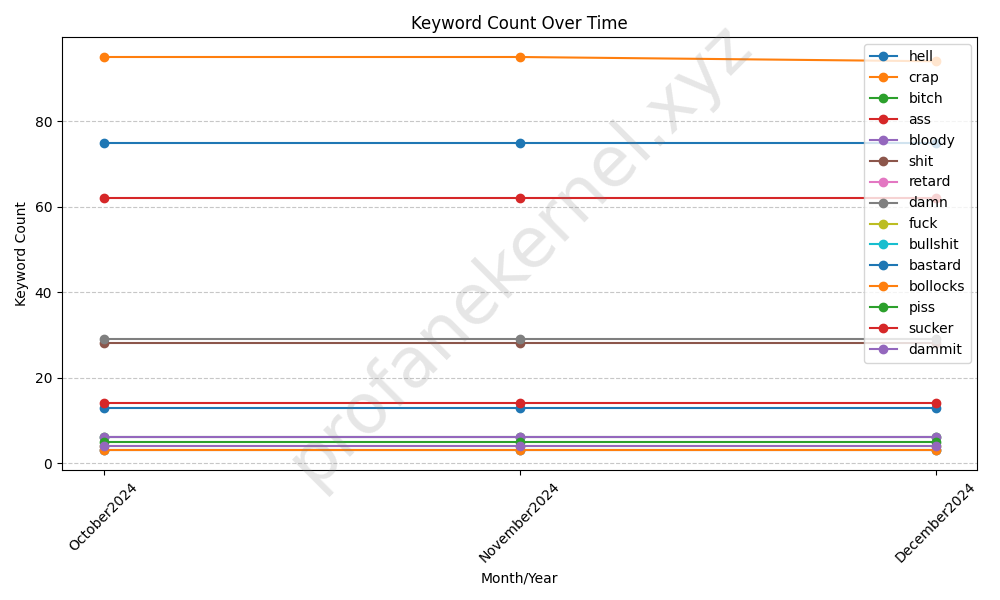
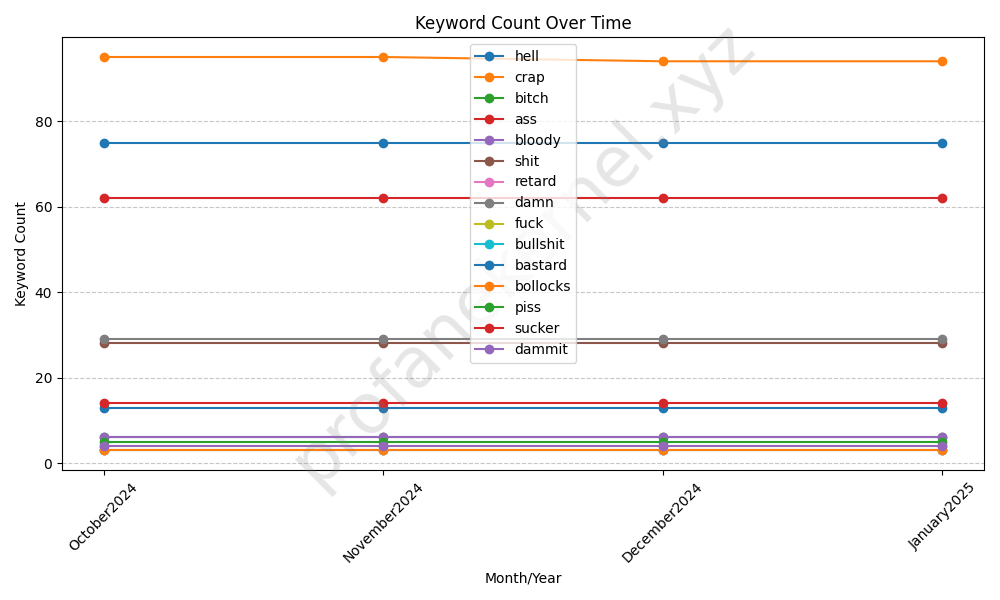
Monthly update: 2025-01-01

diff --git a/main.py b/main.py
@@ -21,7 +21,7 @@ count_file = "count.csv"
 
 ignore_file = "ignore.txt"
 
-concurrent = 10                         #number of files to read at the same time. too many will error out.
+concurrent = 50                         #number of files to read at the same time. too many will error out.
 
 archive_dir="results/archive"
 

diff --git a/results/PROFANITY.md b/results/PROFANITY.md
@@ -37,17 +37,17 @@
 | https://git.kernel.org/pub/scm/linux/kernel/git/stable/linux.git/tree/drivers/net/wireless/broadcom/brcm80211/brcmsmac/main.c | 7864 | hell | /* ..now really unleash hell (allow the MAC out of suspend) */ |
 | https://git.kernel.org/pub/scm/linux/kernel/git/stable/linux.git/tree/drivers/net/wireless/ath/ath5k/desc.c | 197 | crap | * WEP crap |
 | https://git.kernel.org/pub/scm/linux/kernel/git/stable/linux.git/tree/drivers/net/wireless/ath/ath5k/desc.c | 333 | crap | * WEP crap |
-| https://git.kernel.org/pub/scm/linux/kernel/git/stable/linux.git/tree/drivers/net/hamradio/scc.c | 1443 | damn | * Damn, where is my Z8530 programming manual...? |
 | https://git.kernel.org/pub/scm/linux/kernel/git/stable/linux.git/tree/drivers/net/hamradio/6pack.c | 468 | crap | default:			/* gcc oh piece-o-crap ... */ |
+| https://git.kernel.org/pub/scm/linux/kernel/git/stable/linux.git/tree/drivers/net/hamradio/scc.c | 1443 | damn | * Damn, where is my Z8530 programming manual...? |
 | https://git.kernel.org/pub/scm/linux/kernel/git/stable/linux.git/tree/drivers/net/ethernet/smsc/smc91x.c | 430 | bloody | /* bloody hardware */ |
 | https://git.kernel.org/pub/scm/linux/kernel/git/stable/linux.git/tree/drivers/net/ethernet/dec/tulip/tulip_core.c | 1548 | damn | sa_offset = 2;		/* Grrr, damn Matrox boards. */ |
-| https://git.kernel.org/pub/scm/linux/kernel/git/stable/linux.git/tree/drivers/net/ethernet/sun/sunhme.c | 958 | shit | /* Remember: "Different name, same old buggy as shit hardware." */ |
 | https://git.kernel.org/pub/scm/linux/kernel/git/stable/linux.git/tree/drivers/net/ethernet/sun/sunhme.h | 275 | ass | * But.... THIS THING IS A PAIN IN THE ASS TO PROGRAM! |
+| https://git.kernel.org/pub/scm/linux/kernel/git/stable/linux.git/tree/drivers/net/ethernet/sun/sunhme.c | 958 | shit | /* Remember: "Different name, same old buggy as shit hardware." */ |
 | https://git.kernel.org/pub/scm/linux/kernel/git/stable/linux.git/tree/drivers/net/ethernet/sun/sunhme.c | 985 | fuck | /* Only Sun can take such nice parts and fuck up the programming interface |
 | https://git.kernel.org/pub/scm/linux/kernel/git/stable/linux.git/tree/drivers/net/ethernet/broadcom/bnx2x/bnx2x_link.c | 4347 | shit | * it means the shit hit the fan. |
 | https://git.kernel.org/pub/scm/linux/kernel/git/stable/linux.git/tree/drivers/net/ethernet/marvell/sky2.c | 2576 | crap | * to handle crap frames. |
-| https://git.kernel.org/pub/scm/linux/kernel/git/stable/linux.git/tree/drivers/net/ethernet/amd/sunlance.c | 52 | shit | *		  This was the sun4c killer. Shit, stupid bug. |
 | https://git.kernel.org/pub/scm/linux/kernel/git/stable/linux.git/tree/drivers/net/ethernet/amd/declance.c | 33 | shit | *      v0.007: Big shit. The LANCE seems to use a different DMA mechanism to |
+| https://git.kernel.org/pub/scm/linux/kernel/git/stable/linux.git/tree/drivers/net/ethernet/amd/sunlance.c | 52 | shit | *		  This was the sun4c killer. Shit, stupid bug. |
 | https://git.kernel.org/pub/scm/linux/kernel/git/stable/linux.git/tree/drivers/net/ethernet/qlogic/qla3xxx.h | 869 | crap | u16 version_and_numPorts; /* together to avoid endianness crap */ |
 | https://git.kernel.org/pub/scm/linux/kernel/git/stable/linux.git/tree/drivers/net/ethernet/cortina/gemini.c | 1712 | crap | /* Oh, crap */ |
 | https://git.kernel.org/pub/scm/linux/kernel/git/stable/linux.git/tree/drivers/net/ethernet/alteon/acenic.c | 518 | damn | * addresses but who gives a damn. |
@@ -66,14 +66,14 @@
 | https://git.kernel.org/pub/scm/linux/kernel/git/stable/linux.git/tree/drivers/scsi/qlogicpti.c | 810 | bullshit | if (qpti->clock == 0) /* bullshit */ |
 | https://git.kernel.org/pub/scm/linux/kernel/git/stable/linux.git/tree/drivers/scsi/dc395x.c | 3498 | crap | /* KG: Can this prevent crap sense data ? */ |
 | https://git.kernel.org/pub/scm/linux/kernel/git/stable/linux.git/tree/drivers/irqchip/irq-gic-v4.c | 46 | crap | *   confines the crap to a single location. And map/unmap really is |
-| https://git.kernel.org/pub/scm/linux/kernel/git/stable/linux.git/tree/drivers/irqchip/irq-gic-v3-its.c | 1204 | hell | /* Warning, macro hell follows */ |
+| https://git.kernel.org/pub/scm/linux/kernel/git/stable/linux.git/tree/drivers/irqchip/irq-gic-v3-its.c | 1206 | hell | /* Warning, macro hell follows */ |
 | https://git.kernel.org/pub/scm/linux/kernel/git/stable/linux.git/tree/drivers/char/agp/amd64-agp.c | 283 | crap | /* Northbridge seems to contain crap. Try the AGP bridge. */ |
 | https://git.kernel.org/pub/scm/linux/kernel/git/stable/linux.git/tree/drivers/pinctrl/aspeed/pinmux-aspeed.h | 485 | hell | /* Macro hell */ |
 | https://git.kernel.org/pub/scm/linux/kernel/git/stable/linux.git/tree/drivers/iommu/arm/arm-smmu-v3/arm-smmu-v3.c | 4007 | crap | /* CR2 (random crap) */ |
 | https://git.kernel.org/pub/scm/linux/kernel/git/stable/linux.git/tree/drivers/ata/pata_cmd640.c | 204 | crap | * Of putting crap on the disk |
 | https://git.kernel.org/pub/scm/linux/kernel/git/stable/linux.git/tree/drivers/ata/sata_via.c | 315 | shit | *	SCR registers on vt6420 are pieces of shit and may hang the |
-| https://git.kernel.org/pub/scm/linux/kernel/git/stable/linux.git/tree/drivers/ata/sata_sil.c | 492 | ass | /* kick HSM in the ass */ |
 | https://git.kernel.org/pub/scm/linux/kernel/git/stable/linux.git/tree/drivers/ata/libata-acpi.c | 491 | crap | /* we always use the 0 slot for crap hardware */ |
+| https://git.kernel.org/pub/scm/linux/kernel/git/stable/linux.git/tree/drivers/ata/sata_sil.c | 492 | ass | /* kick HSM in the ass */ |
 | https://git.kernel.org/pub/scm/linux/kernel/git/stable/linux.git/tree/drivers/gpu/drm/nouveau/nouveau_drm.c | 460 | crap | /*XXX: this is crap, but the fence/channel stuff is a little |
 | https://git.kernel.org/pub/scm/linux/kernel/git/stable/linux.git/tree/drivers/gpu/drm/nouveau/include/nvkm/subdev/clk.h | 113 | shit | *     bat-shit insane what-was-nouveau_hw.c code |
 | https://git.kernel.org/pub/scm/linux/kernel/git/stable/linux.git/tree/drivers/gpu/drm/nouveau/nvkm/subdev/pmu/fuc/macros.fuc | 49 | fuck | #define NV_PPWR_INTR_EN_CLR_MASK                    /* fuck i hate envyas */ -1 |
@@ -106,8 +106,8 @@
 | https://git.kernel.org/pub/scm/linux/kernel/git/stable/linux.git/tree/drivers/atm/he.c | 1518 | hell | HPRINTK("hell bent for leather!\n"); |
 | https://git.kernel.org/pub/scm/linux/kernel/git/stable/linux.git/tree/drivers/greybus/es2.c | 330 | crap | * Crap, pool is empty, complain to the syslog and go allocate one |
 | https://git.kernel.org/pub/scm/linux/kernel/git/stable/linux.git/tree/arch/arm/kernel/head.S | 86 | crap | * We're trying to keep crap to a minimum; DO NOT add any machine specific |
-| https://git.kernel.org/pub/scm/linux/kernel/git/stable/linux.git/tree/arch/arm/kernel/head.S | 87 | crap | * crap here - that's what the boot loader (or in extreme, well justified |
 | https://git.kernel.org/pub/scm/linux/kernel/git/stable/linux.git/tree/arch/arm/kernel/traps.c | 635 | hell | * the fires of hell burn in your belly if you break this rule. ;) |
+| https://git.kernel.org/pub/scm/linux/kernel/git/stable/linux.git/tree/arch/arm/kernel/head.S | 87 | crap | * crap here - that's what the boot loader (or in extreme, well justified |
 | https://git.kernel.org/pub/scm/linux/kernel/git/stable/linux.git/tree/arch/x86/pci/irq.c | 433 | damn | * ALI pirq entries are damn ugly, and completely undocumented. |
 | https://git.kernel.org/pub/scm/linux/kernel/git/stable/linux.git/tree/arch/x86/platform/efi/efi_64.c | 313 | crap | * to virtual mode and would otherwise crap on us. |
 | https://git.kernel.org/pub/scm/linux/kernel/git/stable/linux.git/tree/arch/x86/include/asm/pci_x86.h | 94 | crap | u32 miniport_data;		/* Crap */ |
@@ -143,8 +143,8 @@
 | https://git.kernel.org/pub/scm/linux/kernel/git/stable/linux.git/tree/arch/mips/kernel/genex.S | 72 | shit | * Big shit, we now may have two dirty primary cache lines for the same |
 | https://git.kernel.org/pub/scm/linux/kernel/git/stable/linux.git/tree/arch/um/drivers/daemon_kern.c | 32 | crap | /* We will free this pointer. If it contains crap we're burned. */ |
 | https://git.kernel.org/pub/scm/linux/kernel/git/stable/linux.git/tree/arch/arm64/kvm/mmu.c | 2200 | damn | * - System caches don't support S/W at all (damn!) |
-| https://git.kernel.org/pub/scm/linux/kernel/git/stable/linux.git/tree/arch/arm64/kvm/hypercalls.c | 60 | damn | * nobody will give a damn about it). |
 | https://git.kernel.org/pub/scm/linux/kernel/git/stable/linux.git/tree/arch/arm64/kvm/vgic/vgic-irqfd.c | 126 | damn | * as long as the damn vgic is initialized. |
+| https://git.kernel.org/pub/scm/linux/kernel/git/stable/linux.git/tree/arch/arm64/kvm/hypercalls.c | 60 | damn | * nobody will give a damn about it). |
 | https://git.kernel.org/pub/scm/linux/kernel/git/stable/linux.git/tree/arch/arm64/kvm/hyp/vhe/switch.c | 94 | crap | * The architecture is a bit crap (what a surprise): an EL2 guest |
 | https://git.kernel.org/pub/scm/linux/kernel/git/stable/linux.git/tree/arch/arm64/kvm/hyp/vhe/switch.c | 97 | sucker | * sucker using the very same bit it can't set... |
 | https://git.kernel.org/pub/scm/linux/kernel/git/stable/linux.git/tree/arch/arm64/lib/csum.c | 35 | piss | * however, have to be careful not to piss off KASAN, which means using |
@@ -166,19 +166,19 @@
 | https://git.kernel.org/pub/scm/linux/kernel/git/stable/linux.git/tree/arch/powerpc/mm/nohash/tlb_low_64e.S | 675 | crap | * r11 = crap (free to use) |
 | https://git.kernel.org/pub/scm/linux/kernel/git/stable/linux.git/tree/arch/powerpc/mm/nohash/tlb_low_64e.S | 676 | crap | * r10 = crap (free to use) |
 | https://git.kernel.org/pub/scm/linux/kernel/git/stable/linux.git/tree/arch/powerpc/platforms/powermac/smp.c | 338 | crap | * crap to avoid giving people ideas that they can do the |
-| https://git.kernel.org/pub/scm/linux/kernel/git/stable/linux.git/tree/arch/powerpc/platforms/powermac/smp.c | 824 | crap | * ideally, all that crap will be done in prom.c and the CPU left |
 | https://git.kernel.org/pub/scm/linux/kernel/git/stable/linux.git/tree/arch/powerpc/platforms/powermac/low_i2c.c | 741 | hell | /* I know that looks like a lot, slow as hell, but darwin |
+| https://git.kernel.org/pub/scm/linux/kernel/git/stable/linux.git/tree/arch/powerpc/platforms/powermac/smp.c | 824 | crap | * ideally, all that crap will be done in prom.c and the CPU left |
 | https://git.kernel.org/pub/scm/linux/kernel/git/stable/linux.git/tree/arch/powerpc/platforms/cell/spider-pic.c | 204 | crap | * crap and we don't know on which BE iic interrupt we are hooked on at |
 | https://git.kernel.org/pub/scm/linux/kernel/git/stable/linux.git/tree/arch/powerpc/platforms/cell/spider-pic.c | 254 | hell | /* ugly as hell but works for now */ |
 | https://git.kernel.org/pub/scm/linux/kernel/git/stable/linux.git/tree/arch/powerpc/kernel/eeh_driver.c | 170 | ass | * This is just ass backwards. This maze has |
 | https://git.kernel.org/pub/scm/linux/kernel/git/stable/linux.git/tree/arch/powerpc/kernel/eeh_driver.c | 183 | shit | * shit unusable forever. |
 | https://git.kernel.org/pub/scm/linux/kernel/git/stable/linux.git/tree/arch/hexagon/mm/init.c | 38 | hell | * over until Hell freezes over.  Actual bound in years needs to be |
 | https://git.kernel.org/pub/scm/linux/kernel/git/stable/linux.git/tree/arch/hexagon/kernel/smp.c | 28 | crap | * (which is prior to any of our smp_prepare_cpu crap), in order to set |
-| https://git.kernel.org/pub/scm/linux/kernel/git/stable/linux.git/tree/arch/sparc/mm/hypersparc.S | 166 | ass | /* Verified, my ass... */ |
 | https://git.kernel.org/pub/scm/linux/kernel/git/stable/linux.git/tree/arch/sparc/mm/srmmu.c | 1136 | crap | /* Clear any crap from the cache or else... */ |
+| https://git.kernel.org/pub/scm/linux/kernel/git/stable/linux.git/tree/arch/sparc/mm/hypersparc.S | 166 | ass | /* Verified, my ass... */ |
+| https://git.kernel.org/pub/scm/linux/kernel/git/stable/linux.git/tree/arch/sparc/mm/ultra.S | 25 | shit | * in Microelectronics who refused to fix this shit. |
 | https://git.kernel.org/pub/scm/linux/kernel/git/stable/linux.git/tree/arch/sparc/mm/srmmu.c | 1149 | shit | * this shit off... nice job Fujitsu. |
 | https://git.kernel.org/pub/scm/linux/kernel/git/stable/linux.git/tree/arch/sparc/mm/srmmu.c | 1317 | crap | /* Clear any crap from the cache or else... */ |
-| https://git.kernel.org/pub/scm/linux/kernel/git/stable/linux.git/tree/arch/sparc/mm/ultra.S | 25 | shit | * in Microelectronics who refused to fix this shit. |
 | https://git.kernel.org/pub/scm/linux/kernel/git/stable/linux.git/tree/arch/sparc/lib/checksum_32.S | 306 | shit | * give up.  I'm serious, I am going to kick the living shit |
 | https://git.kernel.org/pub/scm/linux/kernel/git/stable/linux.git/tree/arch/sparc/lib/checksum_32.S | 322 | ass | be	ccdbl + 4		! 8 byte aligned, kick ass |
 | https://git.kernel.org/pub/scm/linux/kernel/git/stable/linux.git/tree/arch/sparc/include/asm/floppy_32.h | 21 | crap | /* We don't need no stinkin' I/O port allocation crap. */ |
@@ -190,12 +190,12 @@
 | https://git.kernel.org/pub/scm/linux/kernel/git/stable/linux.git/tree/net/rds/ib_cm.c | 730 | crap | /* Even if len is crap *now* I still want to check it. -ASG */ |
 | https://git.kernel.org/pub/scm/linux/kernel/git/stable/linux.git/tree/net/rxrpc/rtt.c | 120 | shit | *    all the algo is pure shit and should be replaced |
 | https://git.kernel.org/pub/scm/linux/kernel/git/stable/linux.git/tree/net/unix/garbage.c | 58 | damn | *		Damn. Added missing check for ->dead in listen queues scanning. |
-| https://git.kernel.org/pub/scm/linux/kernel/git/stable/linux.git/tree/net/ipv4/ah4.c | 97 | crap | case 0x85:	/* Some "Extended Security" crap. */ |
-| https://git.kernel.org/pub/scm/linux/kernel/git/stable/linux.git/tree/net/ipv4/ip_input.c | 28 | crap | *					new frame it queues. Still crap because |
 | https://git.kernel.org/pub/scm/linux/kernel/git/stable/linux.git/tree/net/ipv4/ip_gre.c | 136 | hell | what the hell these idiots break standards established |
-| https://git.kernel.org/pub/scm/linux/kernel/git/stable/linux.git/tree/net/ipv4/ip_input.c | 460 | crap | /* When the interface is in promisc. mode, drop all the crap |
+| https://git.kernel.org/pub/scm/linux/kernel/git/stable/linux.git/tree/net/ipv4/route.c | 3757 | damn | * We really need to sanitize the damn ipv4 init order, then all |
+| https://git.kernel.org/pub/scm/linux/kernel/git/stable/linux.git/tree/net/ipv4/ip_input.c | 28 | crap | *					new frame it queues. Still crap because |
+| https://git.kernel.org/pub/scm/linux/kernel/git/stable/linux.git/tree/net/ipv4/ah4.c | 97 | crap | case 0x85:	/* Some "Extended Security" crap. */ |
 | https://git.kernel.org/pub/scm/linux/kernel/git/stable/linux.git/tree/net/ipv4/ip_gre.c | 227 | hell | * what the hell these idiots break standards established |
-| https://git.kernel.org/pub/scm/linux/kernel/git/stable/linux.git/tree/net/ipv4/route.c | 3756 | damn | * We really need to sanitize the damn ipv4 init order, then all |
+| https://git.kernel.org/pub/scm/linux/kernel/git/stable/linux.git/tree/net/ipv4/ip_input.c | 460 | crap | /* When the interface is in promisc. mode, drop all the crap |
 | https://git.kernel.org/pub/scm/linux/kernel/git/stable/linux.git/tree/net/ipv4/tcp_input.c | 977 | crap | /* Old crap is replaced with new one. 8) |
 | https://git.kernel.org/pub/scm/linux/kernel/git/stable/linux.git/tree/net/ipv4/tcp_input.c | 991 | shit | *    all the algo is pure shit and should be replaced |
 | https://git.kernel.org/pub/scm/linux/kernel/git/stable/linux.git/tree/net/netfilter/xt_hashlimit.c | 71 | crap | /* hash table crap */ |
@@ -224,24 +224,24 @@
 | https://git.kernel.org/pub/scm/linux/kernel/git/stable/linux.git/tree/tools/perf/trace/beauty/include/uapi/sound/asound.h | 63 | shit | unsigned char db5_dminh_lsv; /* downmix inhibit & level-shit values */ |
 | https://git.kernel.org/pub/scm/linux/kernel/git/stable/linux.git/tree/tools/perf/bench/futex-hash.c | 5 | hell | * futex-hash: Stress the hell out of the Linux kernel futex uaddr hashing. |
 | https://git.kernel.org/pub/scm/linux/kernel/git/stable/linux.git/tree/Documentation/process/coding-style.rst | 862 | hell | might look like a good thing, but it's confusing as hell when one reads the |
-| https://git.kernel.org/pub/scm/linux/kernel/git/stable/linux.git/tree/Documentation/process/handling-regressions.rst | 672 | dammit | And dammit, we upgrade the kernel ALL THE TIME without upgrading any |
 | https://git.kernel.org/pub/scm/linux/kernel/git/stable/linux.git/tree/Documentation/process/management-style.rst | 67 | bullshit | And people will even see that as true leadership (*cough* bullshit |
+| https://git.kernel.org/pub/scm/linux/kernel/git/stable/linux.git/tree/Documentation/process/handling-regressions.rst | 672 | dammit | And dammit, we upgrade the kernel ALL THE TIME without upgrading any |
+| https://git.kernel.org/pub/scm/linux/kernel/git/stable/linux.git/tree/Documentation/process/submitting-patches.rst | 862 | piss | Greg Kroah-Hartman, "How to piss off a kernel subsystem maintainer". |
 | https://git.kernel.org/pub/scm/linux/kernel/git/stable/linux.git/tree/Documentation/process/management-style.rst | 114 | hell | sure as hell shouldn't encourage them by promising them that what they |
 | https://git.kernel.org/pub/scm/linux/kernel/git/stable/linux.git/tree/Documentation/process/management-style.rst | 272 | crap | a while, and you'll feel cleansed. Just don't crap too close to home. |
-| https://git.kernel.org/pub/scm/linux/kernel/git/stable/linux.git/tree/Documentation/process/submitting-patches.rst | 862 | piss | Greg Kroah-Hartman, "How to piss off a kernel subsystem maintainer". |
 | https://git.kernel.org/pub/scm/linux/kernel/git/stable/linux.git/tree/Documentation/arch/x86/i386/IO-APIC.rst | 26 | hell | hell:~> cat /proc/interrupts |
 | https://git.kernel.org/pub/scm/linux/kernel/git/stable/linux.git/tree/Documentation/arch/x86/i386/IO-APIC.rst | 37 | hell | hell:~> |
 | https://git.kernel.org/pub/scm/linux/kernel/git/stable/linux.git/tree/Documentation/kernel-hacking/hacking.rst | 797 | damn | * Sun people can't spell worth damn. "compatability" indeed. |
-| https://git.kernel.org/pub/scm/linux/kernel/git/stable/linux.git/tree/Documentation/kernel-hacking/hacking.rst | 816 | shit | * give up.  I'm serious, I am going to kick the living shit |
 | https://git.kernel.org/pub/scm/linux/kernel/git/stable/linux.git/tree/Documentation/RCU/RTFP.txt | 1740 | ass | \url{https://lore.kernel.org/r/20070128120509.719287000@programming.kicks-ass.net} |
+| https://git.kernel.org/pub/scm/linux/kernel/git/stable/linux.git/tree/Documentation/kernel-hacking/hacking.rst | 816 | shit | * give up.  I'm serious, I am going to kick the living shit |
 | https://git.kernel.org/pub/scm/linux/kernel/git/stable/linux.git/tree/Documentation/filesystems/ramfs-rootfs-initramfs.rst | 331 | hell | 5) Al Viro made the decision (quote: "tar is ugly as hell and not going to be |
 | https://git.kernel.org/pub/scm/linux/kernel/git/stable/linux.git/tree/Documentation/trace/postprocess/trace-pagealloc-postprocess.pl | 2 | crap | # This is a POC (proof of concept or piece of crap, take your pick) for reading the |
 | https://git.kernel.org/pub/scm/linux/kernel/git/stable/linux.git/tree/Documentation/core-api/irq/irq-affinity.rst | 32 | hell | PING hell (195.4.7.3): 56 data bytes |
 | https://git.kernel.org/pub/scm/linux/kernel/git/stable/linux.git/tree/Documentation/core-api/irq/irq-affinity.rst | 34 | hell | --- hell ping statistics --- |
 | https://git.kernel.org/pub/scm/linux/kernel/git/stable/linux.git/tree/Documentation/core-api/irq/irq-affinity.rst | 51 | hell | PING hell (195.4.7.3): 56 data bytes |
 | https://git.kernel.org/pub/scm/linux/kernel/git/stable/linux.git/tree/Documentation/core-api/irq/irq-affinity.rst | 53 | hell | --- hell ping statistics --- |
-| https://git.kernel.org/pub/scm/linux/kernel/git/stable/linux.git/tree/Documentation/translations/sp_SP/process/submitting-patches.rst | 897 | piss | "How to piss off a kernel subsystem maintainer" por Greg Kroah-Hartman. |
 | https://git.kernel.org/pub/scm/linux/kernel/git/stable/linux.git/tree/Documentation/translations/ja_JP/SubmittingPatches | 699 | piss | Greg Kroah-Hartman, "How to piss off a kernel subsystem maintainer". |
+| https://git.kernel.org/pub/scm/linux/kernel/git/stable/linux.git/tree/Documentation/translations/sp_SP/process/submitting-patches.rst | 897 | piss | "How to piss off a kernel subsystem maintainer" por Greg Kroah-Hartman. |
 | https://git.kernel.org/pub/scm/linux/kernel/git/stable/linux.git/tree/Documentation/translations/zh_CN/kernel-hacking/hacking.rst | 675 | damn | * Sun people can't spell worth damn. "compatibility" indeed. |
 | https://git.kernel.org/pub/scm/linux/kernel/git/stable/linux.git/tree/Documentation/translations/zh_CN/kernel-hacking/hacking.rst | 694 | shit | * give up.  I'm serious, I am going to kick the living shit |
 | https://git.kernel.org/pub/scm/linux/kernel/git/stable/linux.git/tree/Documentation/translations/zh_CN/core-api/irq/irq-affinity.rst | 40 | hell | PING hell (195.4.7.3): 56 data bytes |
@@ -262,16 +262,17 @@
 | https://git.kernel.org/pub/scm/linux/kernel/git/stable/linux.git/tree/include/linux/mtd/flashchip.h | 64 | damn | it'll make it a damn sight harder to find which chip we want from |
 | https://git.kernel.org/pub/scm/linux/kernel/git/stable/linux.git/tree/sound/usb/mixer.c | 1319 | crap | /* totally crap, return an error */ |
 | https://git.kernel.org/pub/scm/linux/kernel/git/stable/linux.git/tree/sound/pci/ad1889.c | 787 | dammit | ad1889_readl(chip, AD_DMA_DISR);	/* flush, dammit! */ |
-| https://git.kernel.org/pub/scm/linux/kernel/git/stable/linux.git/tree/sound/pci/azt3328.c | 185 | crap | * Config switch, to use ALSA's AC97 layer instead of old custom mixer crap. |
 | https://git.kernel.org/pub/scm/linux/kernel/git/stable/linux.git/tree/sound/pci/es1968.c | 1145 | crap | /* parallel in crap, see maestro reg 0xC [8-11] */ |
-| https://git.kernel.org/pub/scm/linux/kernel/git/stable/linux.git/tree/sound/pci/azt3328.c | 616 | damn | (13), make damn sure |
 | https://git.kernel.org/pub/scm/linux/kernel/git/stable/linux.git/tree/sound/pci/ens1370.c | 614 | dammit | /* wait for a SAFE time to write addr/data and then do it, dammit */ |
-| https://git.kernel.org/pub/scm/linux/kernel/git/stable/linux.git/tree/sound/pci/ens1370.c | 657 | dammit | /* wait for a SAFE time to write addr/data and then do it, dammit */ |
+| https://git.kernel.org/pub/scm/linux/kernel/git/stable/linux.git/tree/sound/pci/azt3328.c | 185 | crap | * Config switch, to use ALSA's AC97 layer instead of old custom mixer crap. |
 | https://git.kernel.org/pub/scm/linux/kernel/git/stable/linux.git/tree/sound/pci/ac97/ac97_patch.c | 1311 | bloody | WHY CAN'T ANYONE FOLLOW THE BLOODY SPEC?  *sigh* |
-| https://git.kernel.org/pub/scm/linux/kernel/git/stable/linux.git/tree/sound/pci/ac97/ac97_patch.c | 3642 | hell | * I have no idea what the hell Reserved does, but on an MSI |
-| https://git.kernel.org/pub/scm/linux/kernel/git/stable/linux.git/tree/sound/pci/ac97/ac97_patch.c | 3644 | shit | * shit may happen. |
+| https://git.kernel.org/pub/scm/linux/kernel/git/stable/linux.git/tree/sound/pci/ens1370.c | 657 | dammit | /* wait for a SAFE time to write addr/data and then do it, dammit */ |
 | https://git.kernel.org/pub/scm/linux/kernel/git/stable/linux.git/tree/sound/pci/hda/patch_realtek.c | 690 | ass | unsigned int ass, tmp, i; |
+| https://git.kernel.org/pub/scm/linux/kernel/git/stable/linux.git/tree/sound/pci/azt3328.c | 616 | damn | (13), make damn sure |
+| https://git.kernel.org/pub/scm/linux/kernel/git/stable/linux.git/tree/sound/pci/ac97/ac97_patch.c | 3642 | hell | * I have no idea what the hell Reserved does, but on an MSI |
 | https://git.kernel.org/pub/scm/linux/kernel/git/stable/linux.git/tree/sound/pci/hda/patch_realtek.c | 697 | ass | ass = spec->cdefine.sku_cfg; |
+| https://git.kernel.org/pub/scm/linux/kernel/git/stable/linux.git/tree/sound/pci/cs46xx/dsp_spos_scb_lib.c | 206 | shit | /* !!!! THIS IS A PIECE OF SHIT MADE BY ME !!! */ |
+| https://git.kernel.org/pub/scm/linux/kernel/git/stable/linux.git/tree/sound/pci/ac97/ac97_patch.c | 3644 | shit | * shit may happen. |
 | https://git.kernel.org/pub/scm/linux/kernel/git/stable/linux.git/tree/sound/pci/hda/patch_realtek.c | 698 | ass | if (ass == ALC_FIXUP_SKU_IGNORE) |
 | https://git.kernel.org/pub/scm/linux/kernel/git/stable/linux.git/tree/sound/pci/hda/patch_realtek.c | 705 | ass | ass = codec->core.subsystem_id & 0xffff; |
 | https://git.kernel.org/pub/scm/linux/kernel/git/stable/linux.git/tree/sound/pci/hda/patch_realtek.c | 706 | ass | if (ass != codec->bus->pci->subsystem_device && (ass & 1)) |
@@ -285,6 +286,7 @@
 | https://git.kernel.org/pub/scm/linux/kernel/git/stable/linux.git/tree/sound/pci/hda/patch_realtek.c | 731 | ass | spec->cdefine.check_sum = (ass >> 16) & 0xf; |
 | https://git.kernel.org/pub/scm/linux/kernel/git/stable/linux.git/tree/sound/pci/hda/patch_realtek.c | 732 | ass | spec->cdefine.customization = ass >> 8; |
 | https://git.kernel.org/pub/scm/linux/kernel/git/stable/linux.git/tree/sound/pci/hda/patch_realtek.c | 734 | ass | spec->cdefine.sku_cfg = ass; |
+| https://git.kernel.org/pub/scm/linux/kernel/git/stable/linux.git/tree/sound/pci/au88x0/au88x0_core.c | 370 | crap | // FIXME: get rid of this crap. |
 | https://git.kernel.org/pub/scm/linux/kernel/git/stable/linux.git/tree/sound/pci/hda/patch_realtek.c | 735 | ass | spec->cdefine.external_amp = (ass & 0x38) >> 3; |
 | https://git.kernel.org/pub/scm/linux/kernel/git/stable/linux.git/tree/sound/pci/hda/patch_realtek.c | 736 | ass | spec->cdefine.platform_type = (ass & 0x4) >> 2; |
 | https://git.kernel.org/pub/scm/linux/kernel/git/stable/linux.git/tree/sound/pci/hda/patch_realtek.c | 737 | ass | spec->cdefine.swap = (ass & 0x2) >> 1; |
@@ -304,34 +306,32 @@
 | https://git.kernel.org/pub/scm/linux/kernel/git/stable/linux.git/tree/sound/pci/hda/patch_realtek.c | 836 | ass | tmp = (ass & 0x38) >> 3;	/* external Amp control */ |
 | https://git.kernel.org/pub/scm/linux/kernel/git/stable/linux.git/tree/sound/pci/hda/patch_realtek.c | 858 | ass | if (!(ass & 0x8000)) |
 | https://git.kernel.org/pub/scm/linux/kernel/git/stable/linux.git/tree/sound/pci/hda/patch_realtek.c | 869 | ass | tmp = (ass >> 11) & 0x3;	/* HP to chassis */ |
-| https://git.kernel.org/pub/scm/linux/kernel/git/stable/linux.git/tree/sound/pci/cs46xx/dsp_spos_scb_lib.c | 206 | shit | /* !!!! THIS IS A PIECE OF SHIT MADE BY ME !!! */ |
-| https://git.kernel.org/pub/scm/linux/kernel/git/stable/linux.git/tree/sound/pci/au88x0/au88x0_core.c | 370 | crap | // FIXME: get rid of this crap. |
 | https://git.kernel.org/pub/scm/linux/kernel/git/stable/linux.git/tree/sound/soc/codecs/wm8994.c | 346 | hell | /* Icky as hell but saves code duplication */ |
 | https://git.kernel.org/pub/scm/linux/kernel/git/stable/linux.git/tree/sound/soc/codecs/wm8994.c | 453 | hell | /* Icky as hell but saves code duplication */ |
 | https://git.kernel.org/pub/scm/linux/kernel/git/stable/linux.git/tree/sound/soc/codecs/wm8996.c | 399 | hell | /* Icky as hell but saves code duplication */ |
 | https://git.kernel.org/pub/scm/linux/kernel/git/stable/linux.git/tree/sound/isa/wavefront/wavefront_synth.c | 2118 | sucker | /* reset that sucker so that it doesn't bother us. */ |
 | https://git.kernel.org/pub/scm/linux/kernel/git/stable/linux.git/tree/sound/aoa/soundbus/i2sbus/core.c | 250 | crap | * useless crap (ugh ugh ugh). We work around that here by calling |
 | https://git.kernel.org/pub/scm/linux/kernel/git/stable/linux.git/tree/fs/namespace.c | 740 | bastard | int __legitimize_mnt(struct vfsmount *bastard, unsigned seq) |
+| https://git.kernel.org/pub/scm/linux/kernel/git/stable/linux.git/tree/fs/super.c | 1747 | bollocks | * then a chunk of this can be removed.  [Bollocks -- AV] |
 | https://git.kernel.org/pub/scm/linux/kernel/git/stable/linux.git/tree/fs/namespace.c | 745 | bastard | if (bastard == NULL) |
 | https://git.kernel.org/pub/scm/linux/kernel/git/stable/linux.git/tree/fs/namespace.c | 747 | bastard | mnt = real_mount(bastard); |
 | https://git.kernel.org/pub/scm/linux/kernel/git/stable/linux.git/tree/fs/namespace.c | 752 | bastard | if (bastard->mnt_flags & MNT_SYNC_UMOUNT) { |
 | https://git.kernel.org/pub/scm/linux/kernel/git/stable/linux.git/tree/fs/namespace.c | 757 | bastard | if (unlikely(bastard->mnt_flags & MNT_DOOMED)) { |
 | https://git.kernel.org/pub/scm/linux/kernel/git/stable/linux.git/tree/fs/namespace.c | 768 | bastard | static bool legitimize_mnt(struct vfsmount *bastard, unsigned seq) |
-| https://git.kernel.org/pub/scm/linux/kernel/git/stable/linux.git/tree/fs/super.c | 1747 | bollocks | * then a chunk of this can be removed.  [Bollocks -- AV] |
 | https://git.kernel.org/pub/scm/linux/kernel/git/stable/linux.git/tree/fs/namespace.c | 770 | bastard | int res = __legitimize_mnt(bastard, seq); |
 | https://git.kernel.org/pub/scm/linux/kernel/git/stable/linux.git/tree/fs/namespace.c | 775 | bastard | mntput(bastard); |
 | https://git.kernel.org/pub/scm/linux/kernel/git/stable/linux.git/tree/fs/namespace.c | 4027 | sucker | /* lock the sucker */ |
 | https://git.kernel.org/pub/scm/linux/kernel/git/stable/linux.git/tree/fs/bcachefs/btree_gc.c | 1100 | crap | *    various other crap: everything needs to agree on the ordering |
 | https://git.kernel.org/pub/scm/linux/kernel/git/stable/linux.git/tree/fs/bcachefs/btree_gc.h | 30 | crap | * position inside its cmpxchg loop, so crap magically works). |
-| https://git.kernel.org/pub/scm/linux/kernel/git/stable/linux.git/tree/fs/jffs2/gc.c | 424 | crap | all the iget() crap anyway */ |
 | https://git.kernel.org/pub/scm/linux/kernel/git/stable/linux.git/tree/fs/jffs2/background.c | 110 | hell | * This forces the GCD to slow the hell down.   Pulling an |
+| https://git.kernel.org/pub/scm/linux/kernel/git/stable/linux.git/tree/fs/jffs2/gc.c | 424 | crap | all the iget() crap anyway */ |
 | https://git.kernel.org/pub/scm/linux/kernel/git/stable/linux.git/tree/fs/jffs2/dir.c | 856 | shit | /* Oh shit. We really ought to make a single node which can do both atomically */ |
 | https://git.kernel.org/pub/scm/linux/kernel/git/stable/linux.git/tree/fs/jffs2/dir.c | 870 | sucker | * for that sucker and we have to trigger mount eviction - the |
 | https://git.kernel.org/pub/scm/linux/kernel/git/stable/linux.git/tree/fs/configfs/symlink.c | 188 | bastard | *  AV, a thoroughly annoyed bastard. |
 | https://git.kernel.org/pub/scm/linux/kernel/git/stable/linux.git/tree/fs/notify/fsnotify.c | 129 | damn | * directory, there damn well better only be one item on this list */ |
-| https://git.kernel.org/pub/scm/linux/kernel/git/stable/linux.git/tree/fs/btrfs/file.c | 2975 | crap | /* Make sure we aren't being give some crap mode */ |
+| https://git.kernel.org/pub/scm/linux/kernel/git/stable/linux.git/tree/fs/btrfs/file.c | 2976 | crap | /* Make sure we aren't being give some crap mode */ |
 | https://git.kernel.org/pub/scm/linux/kernel/git/stable/linux.git/tree/fs/adfs/dir_f.c | 66 | bitch | * assembler, but a bitch in C...  This is one |
-| https://git.kernel.org/pub/scm/linux/kernel/git/stable/linux.git/tree/fs/smb/client/inode.c | 1985 | sucker | * sucker and replace it with non-directory.  Return success, |
+| https://git.kernel.org/pub/scm/linux/kernel/git/stable/linux.git/tree/fs/smb/client/inode.c | 2062 | sucker | * sucker and replace it with non-directory.  Return success, |
 | https://git.kernel.org/pub/scm/linux/kernel/git/stable/linux.git/tree/fs/smb/client/dir.c | 880 | ass | * Here, we again ass|u|me that upper/lowercase versions of |
 | https://git.kernel.org/pub/scm/linux/kernel/git/stable/linux.git/tree/fs/affs/Changes | 243 | damn | 30 characters. (Damn it! This kind of bug |
 | https://git.kernel.org/pub/scm/linux/kernel/git/stable/linux.git/tree/fs/ocfs2/xattr.c | 2242 | sucker | * sane state.  Thus, even with errors we dirty the sucker. |
@@ -342,7 +342,7 @@
 | https://git.kernel.org/pub/scm/linux/kernel/git/stable/linux.git/tree/kernel/fork.c | 12 | bitch | * management can be a bitch. See 'mm/memory.c': 'copy_page_range()' |
 | https://git.kernel.org/pub/scm/linux/kernel/git/stable/linux.git/tree/kernel/module/main.c | 766 | damn | /* FIXME: if (force), slam module count damn the torpedoes */ |
 | https://git.kernel.org/pub/scm/linux/kernel/git/stable/linux.git/tree/kernel/irq/irqdomain.c | 932 | hell | * don't do it again, or hell will break loose. |
-| https://git.kernel.org/pub/scm/linux/kernel/git/stable/linux.git/tree/kernel/sched/fair.c | 4757 | hell | * Hell(o) Nasty stuff.. we need to recompute _sum based on the new |
+| https://git.kernel.org/pub/scm/linux/kernel/git/stable/linux.git/tree/kernel/sched/fair.c | 4766 | hell | * Hell(o) Nasty stuff.. we need to recompute _sum based on the new |
 | https://git.kernel.org/pub/scm/linux/kernel/git/stable/linux.git/tree/kernel/sched/clock.c | 439 | crap | * TSC to be unstable, any computation will be computing crap. |
 | https://git.kernel.org/pub/scm/linux/kernel/git/stable/linux.git/tree/kernel/sched/core.c | 5439 | bollocks | * IO-wait accounting, and how it's mostly bollocks (on SMP). |
 | https://git.kernel.org/pub/scm/linux/kernel/git/stable/linux.git/tree/kernel/events/internal.h | 34 | crap | /* poll crap */ |
@@ -351,4 +351,4 @@
 | https://git.kernel.org/pub/scm/linux/kernel/git/stable/linux.git/tree/kernel/time/posix-cpu-timers.c | 1198 | hell | * keep the callback static and to avoid header recursion hell. |
 
 
-Last updated: 2024-12-02 02:03:17
+Last updated: 2025-01-01 22:01:37

diff --git a/results/COUNT.md b/results/COUNT.md
@@ -17,4 +17,4 @@
 | dammit | 4 |
 
 
-Last updated: 2024-12-02 02:03:17
+Last updated: 2025-01-01 22:01:37
